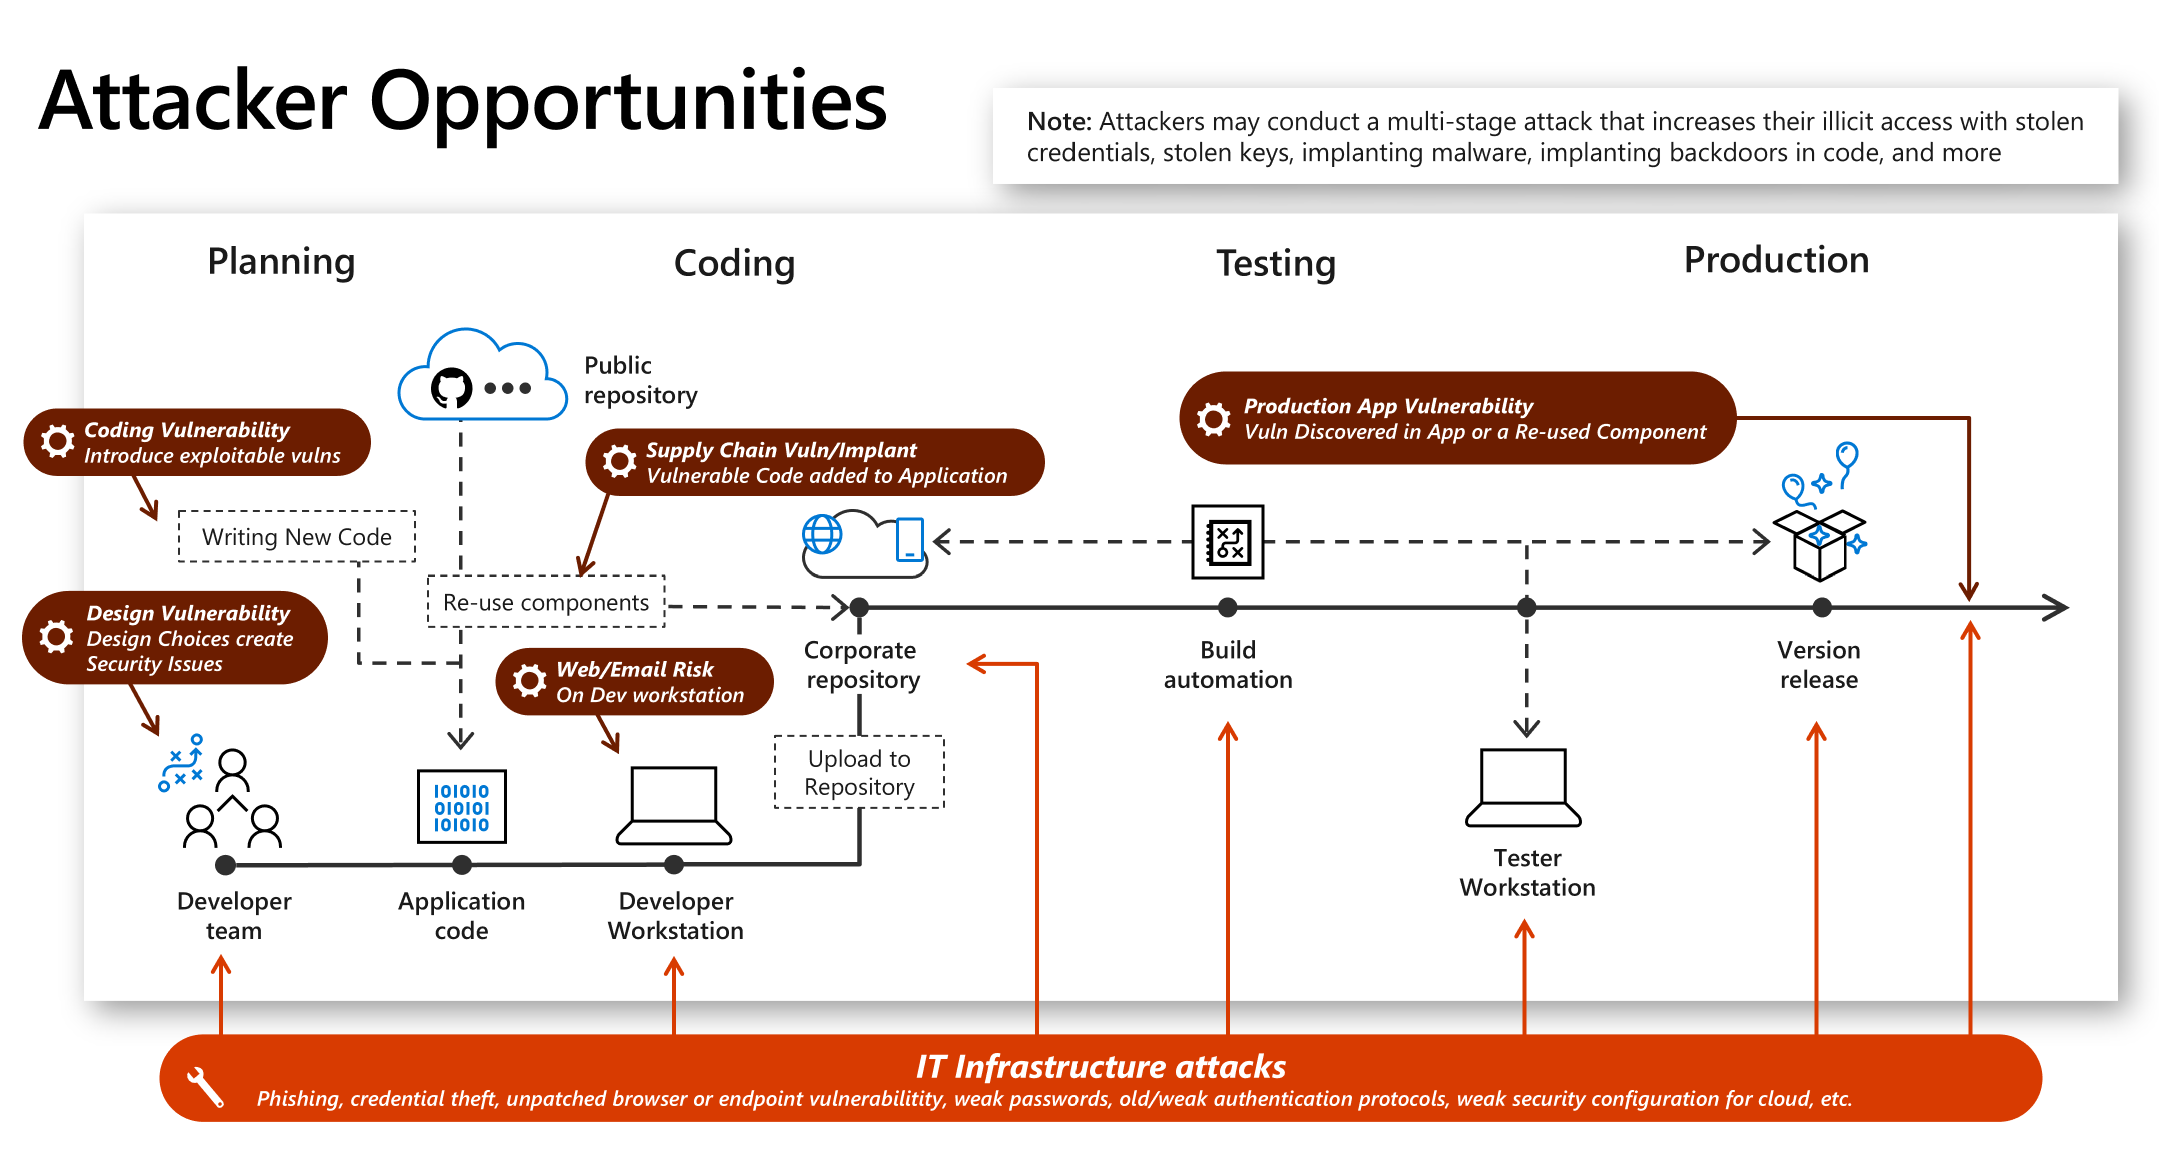
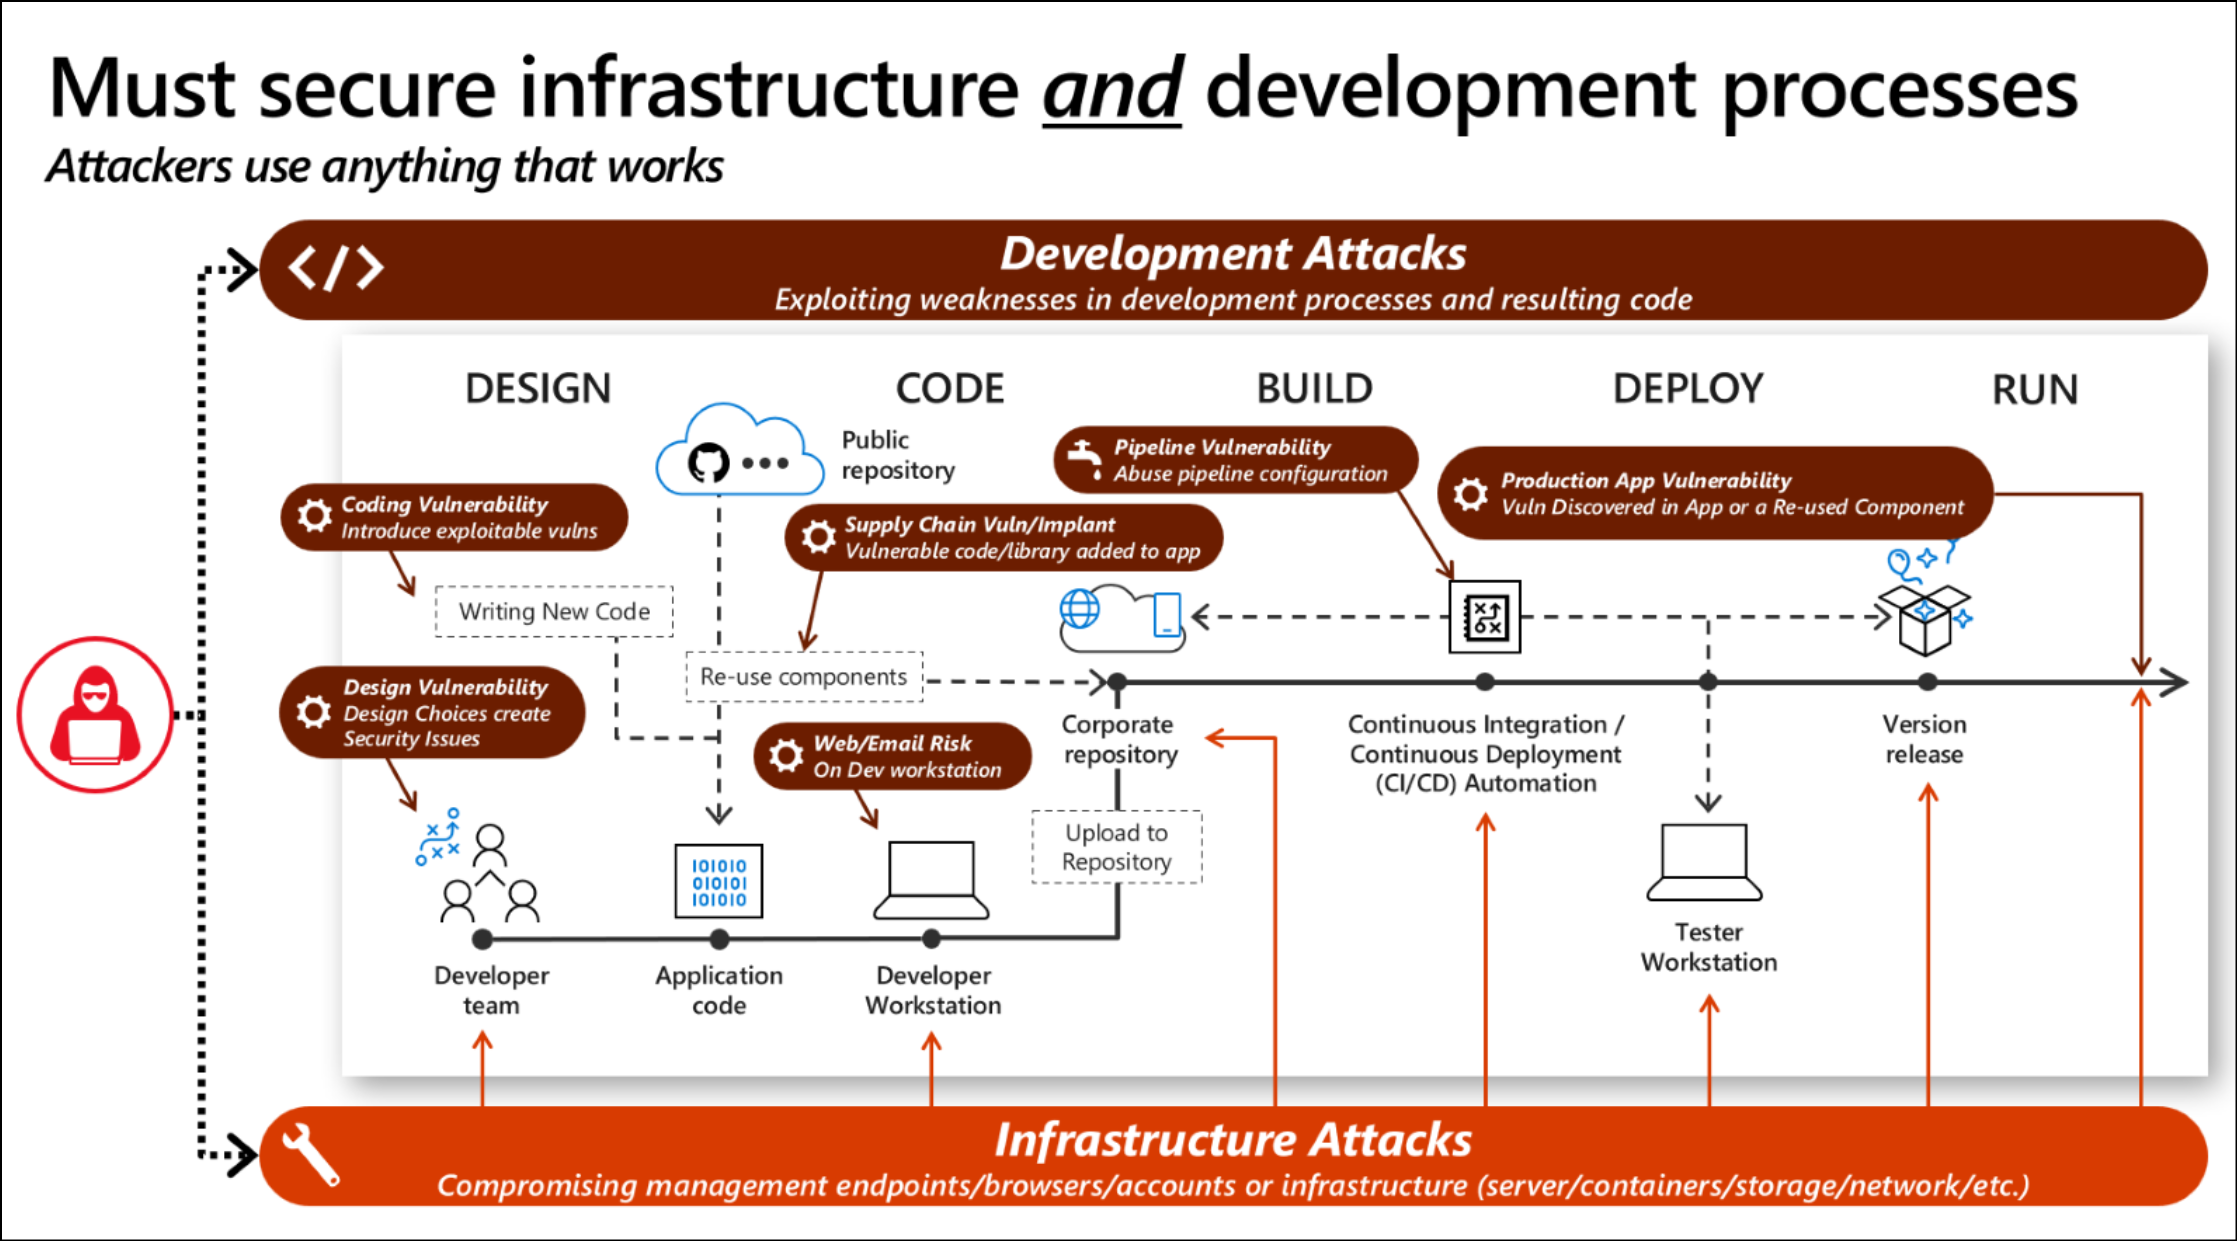
[CAF Secure] Continuous SDL

diff --git a/docs/secure/innovation-security.md b/docs/secure/innovation-security.md
@@ -1,26 +1,26 @@
 ---
-title: Innovation security
+title: Innovation security - DevSecOps strategy and culture
 description: Explore the key themes of consideration for integrating security best practices into innovation areas
 author: martinekuan
 ms.author: martinek
-ms.date: 05/16/2021
+ms.date: 05/16/2024
 ms.topic: conceptual
 ms.custom: internal
+ms.reviewer: mas
 ---
+# Applying the Continuous Security Development Lifecycle (Continuous SDL) approach
 
-# Innovation security
-
-Innovation is the lifeblood of an organization in the digital age and needs to be both enabled and protected. Innovation security protects the processes and data of innovation against cyberattacks. Innovation in the digital age takes the form of developing applications using the DevOps or [DevSecOps](./devsecops-controls.md) method to rapidly innovate without waiting for the traditional waterfall ship schedule that can take months or years between releases.
+Innovation is the lifeblood of an organization in the digital age and needs to be both enabled and protected. Innovation security protects the processes and data of innovation against cyberattacks. Innovation in the digital age takes the form of developing applications using the DevOps or [DevSecOps](./devsecops-controls.md) method to rapidly innovate without waiting for the traditional waterfall ship schedule that can take months or years between releases.
 
 ![DevSecOps heart](./media/devsecops-heart.png)
 
-Developing new capabilities and applications requires successfully meeting three different requirement types:
+Successful capabilities and applications meet three different requirement types:  
 
-- **Business development (`Dev`):** Your application must meet business and user needs, which are often rapidly evolving.
-- **Security (`Sec`):** Your application must be resilient to attacks from rapidly evolving attackers and take advantage of innovations in security defenses.
-- **IT operations (`Ops`):** Your application must be reliable and perform efficiently.
+- Functional (Dev): Your application must meet business and user needs, which are often rapidly evolving.
+- Secure (Sec): Your application must be resilient to attacks from rapidly evolving attackers and take advantage of innovations in security defenses.
+- Reliable (Ops): Your application must be reliable and perform efficiently.
 
-Merging these three requirements together and creating a shared culture is critically important, but often challenging. Leaders of development, IT, and security teams must work together to drive this change. For more information, see the [leadership imperative: blend the cultures](/#the-leadership-imperative-blend-the-cultures).
+Merging these three requirements together and creating a shared culture is critically important, but often challenging. Leaders of development, IT, and security teams must work together to drive this change.  
 
 Watch the following video to learn more about the DevSecOps method for secure and rapid innovation.
 
@@ -52,22 +52,41 @@ DevOps brings agility, DevSecOps brings secure agility.
 
 Nearly every organization on the planet looks to software development to gain a competitive advantage through innovation. Securing the DevOps process is critical to the success of the organization. Attackers have taken notice of this shift to custom applications and are increasingly attacking custom applications during their attacks. These new applications are often rich sources of valuable intellectual property that contain valuable new ideas that aren't yet a commodity in the marketplace.
 
-Protecting this innovation requires that organizations address potential security weaknesses and attacks in both the development process and the infrastructure hosting the applications. This approach applied to both cloud and on-premises.
+Protecting this innovation requires that organizations address potential security weaknesses and attacks in both the development process and the infrastructure hosting the applications. This approach must be applied to both cloud and on-premises resource.
 
 :::image type="content" source="./media/attacker-opportunities.png" alt-text="Attacker Opportunities" lightbox="./media/attacker-opportunities.png":::
 
-Attackers might exploit weaknesses in:
+Attackers can achieve their goals by exploiting weaknesses in either the development process, the underlying infrastructure for workloads, or both:
 
-- **Development process:** Attackers might find weaknesses in the application design process, for example, using weak or no encryption for communications. Or attackers might find weakness in the implementation of the design, for example, code doesn't validate input and allows common attacks like SQL injection. Additionally, attackers might implant back doors in the code that allows them to return later to exploit in your environment or in your customer's environment.
-- **IT infrastructure:** Attackers can compromise endpoint and infrastructure elements that the development process is hosted on using standard attacks. Attackers might also conduct a multistage attack that uses stolen credentials or malware to access development infrastructure from other parts of the environment. Additionally, the risk of software supply chain attacks makes it critical to integrate security into your process for both:
-- **Protecting your organization:** From malicious code and vulnerabilities in your source code supply chain
-- **Protecting your customers:** From any security issues in your applications and systems, which might result in reputation damage, liability, or other negative business impacts on your organization
+- Development Attacks: using weaknesses in the application design and development process. For example, attackers might find code that doesn't validate input (allowing common attacks like SQL injection) or they may find the application uses weak encryption (or no encryption) for communications. Additionally, attackers might implant back doors in the code that allows them to return later to access assets in your environment or in your customer's environment.
+- Infrastructure Attacks: that compromise endpoint and infrastructure elements that the development process is hosted on using standard attacks. Attackers might also conduct a multistage attack that uses stolen credentials or malware to access development infrastructure from other parts of the environment.  
+
+Additionally, the risk of software supply chain attacks makes it critical to integrate security into your process for both:
+
+- Protecting your organization: From malicious code and vulnerabilities in your source code supply chain
+- Protecting your customers: From any security issues in your applications and systems, which might result in reputation damage, liability, or other negative business impacts on your organization
+
+### Integrate security throughout the development lifecycle
+
+It’s critical to integrate security throughout the development lifecycle to quickly identify and correct design, code, and other issues early while people are working on that part of the process. This avoids more expensive and difficult fixes later that can cause a large amount of rework.
+
+:::image type="content" source="media/dev-sec-ops-plus-zero-trust.png" alt-text="Diagram of software development lifecycle with Zero Trust architecture and governance overlay.":::
+
+!PENDING MARK!
+Explain Lifecycle and Concepts
+
+- Design
+- Code
+- Build
+- Deploy
+- Run
+- Zero Trust Architecture and Governance
 
 ## The DevSecOps journey
 
-Most organizations find that DevOps or DevSecOps for any given workload or application is actually a two-phase process, where ideas first incubate in a safe space and then later released to production and iteratively and continuously updated.
+Most organizations find that DevOps or DevSecOps for any given workload or application is actually a two-phase process, where ideas first incubate in a safe space and then later released to production as a minimum viable product (MVP), which are then iteratively and continuously updated. 
 
-This diagram shows the lifecycle of this kind of innovation factory approach:
+This diagram shows the lifecycle of this kind of innovation factory approach: 
 
 :::image type="content" source="./media/devsecops-overview.png" alt-text="DevSecOps Phases" lightbox="./media/devsecops-overview-popout.png":::
 
